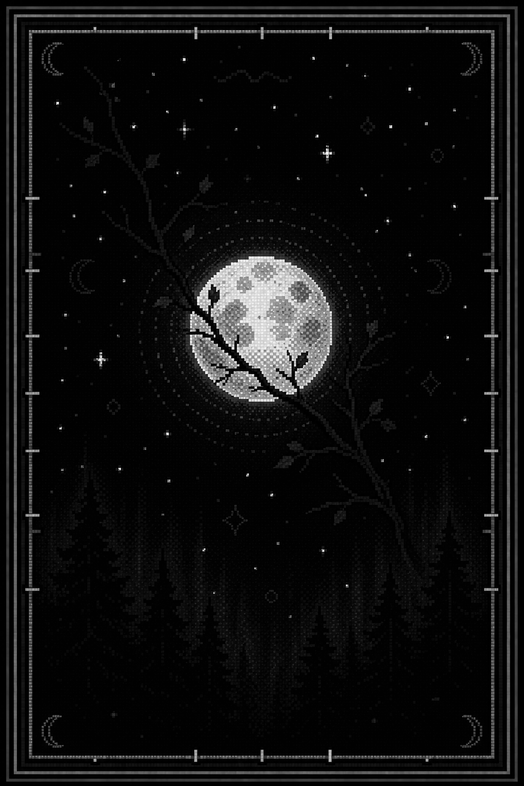
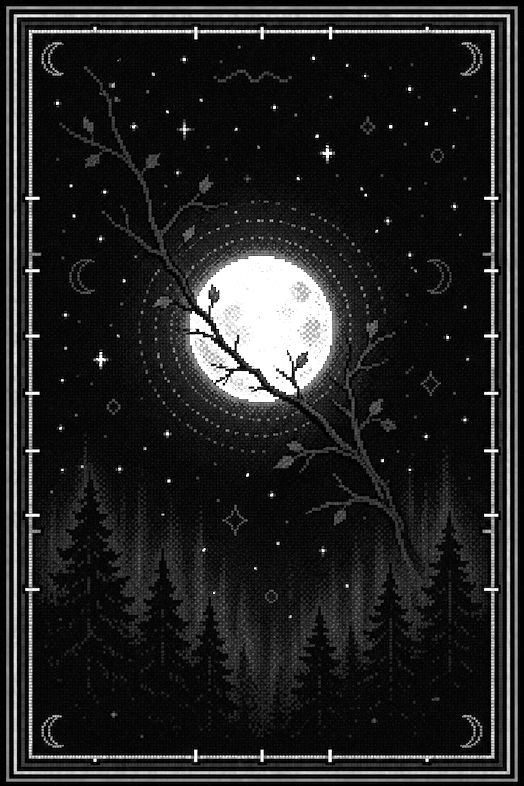
fix: increase card backs contrast/visibility (autocontrast+gamma), rebuild

diff --git a/static/webapp/index.html b/static/webapp/index.html
@@ -1,1 +1,1 @@
-<!DOCTYPE html><html lang="ru" class="bg-black"><head><meta charSet="utf-8" data-next-head=""/><meta name="viewport" content="width=device-width" data-next-head=""/><meta name="theme-color" content="#000000"/><link rel="preconnect" href="https://fonts.googleapis.com"/><link rel="preconnect" href="https://fonts.gstatic.com" crossorigin="anonymous"/><link rel="preload" href="/_next/static/css/f9eccfaf8efbd05d.css" as="style"/><link href="https://fonts.googleapis.com/css2?family=Pixelify+Sans:wght@400;500;600;700&amp;family=VT323&amp;family=Press+Start+2P&amp;display=swap" rel="stylesheet"/><link rel="stylesheet" href="/_next/static/css/f9eccfaf8efbd05d.css" data-n-g=""/><noscript data-n-css=""></noscript><script defer="" noModule="" src="/_next/static/chunks/polyfills-42372ed130431b0a.js"></script><script src="https://telegram.org/js/telegram-web-app.js" defer="" data-nscript="beforeInteractive"></script><script src="/_next/static/chunks/webpack-8cac0b4b405cede1.js" defer=""></script><script src="/_next/static/chunks/framework-2c534e0e662575a2.js" defer=""></script><script src="/_next/static/chunks/main-de559de20b9517d4.js" defer=""></script><script src="/_next/static/chunks/pages/_app-fef819377cce5fde.js" defer=""></script><script src="/_next/static/chunks/pages/index-9efd0b22df62f9f7.js" defer=""></script><script src="/_next/static/J_t66odVeMtg9SXTJaoMb/_buildManifest.js" defer=""></script><script src="/_next/static/J_t66odVeMtg9SXTJaoMb/_ssgManifest.js" defer=""></script></head><body class="font-mono text-white flex flex-col"><link rel="preload" as="image" href="/guides/shadow_walker.png"/><div id="__next"><div class="crt flex flex-col items-center w-full relative"><div class="ambient-layer" aria-hidden="true"><span class="ambient-symbol" style="left:24.334125323184708%;top:87.24261540155567%;font-size:8px;--amb-op:0.04815921175875701;--amb-delay:9.920694608154008s">ᚨ</span><span class="ambient-symbol" style="left:75.99109414732084%;top:15.527796991955256%;font-size:7px;--amb-op:0.05634205833037413;--amb-delay:4.454062401491683s">ᚢ</span><span class="ambient-symbol" style="left:95.67094504081979%;top:95.46716827735509%;font-size:9px;--amb-op:0.044403291722555874;--amb-delay:1.1880765578825958s">⚹</span><span class="ambient-symbol" style="left:53.35548423554428%;top:42.14371830385062%;font-size:11px;--amb-op:0.07041663370594506;--amb-delay:1.1366274615284055s">⊕</span><span class="ambient-symbol" style="left:23.988713766811998%;top:0.42420453817157977%;font-size:6px;--amb-op:0.06469195588622825;--amb-delay:10.883542628580472s">▽</span><span class="ambient-symbol" style="left:88.71500214445405%;top:15.477319325873395%;font-size:9px;--amb-op:0.03888905712836276;--amb-delay:1.6606402200704906s">⨁</span><span class="ambient-symbol" style="left:18.131979215104366%;top:76.17017082848179%;font-size:14px;--amb-op:0.047108650023146764;--amb-delay:8.100602752674604s">⌘</span><span class="ambient-symbol" style="left:48.00069399352651%;top:55.48673355006031%;font-size:13px;--amb-op:0.04159551690070657;--amb-delay:6.673738794052042s">ᚨ</span><span class="ambient-symbol" style="left:3.399956609791843%;top:2.3905923600977985%;font-size:12px;--amb-op:0.043727814847788975;--amb-delay:13.820047674380476s">∴</span><span class="ambient-symbol" style="left:96.5427948947763%;top:34.53841064729204%;font-size:13px;--amb-op:0.05780465204850771;--amb-delay:3.7901556619181065s">ᚨ</span><span class="ambient-symbol" style="left:44.39113915359485%;top:15.343130835390184%;font-size:13px;--amb-op:0.07201861230922077;--amb-delay:6.2108725678990595s">⨂</span><span class="ambient-symbol" style="left:75.76570171659114%;top:3.2322699786163867%;font-size:9px;--amb-op:0.05814774886028318;--amb-delay:3.393105679497239s">⚡</span><span class="ambient-symbol" style="left:22.695750138154835%;top:28.725556895369664%;font-size:11px;--amb-op:0.07698599711227871;--amb-delay:7.401705797819886s">⚹</span><span class="ambient-symbol" style="left:16.059050854164525%;top:38.42137212832313%;font-size:6px;--amb-op:0.06948413109173998;--amb-delay:16.908615564461797s">♰</span><span class="ambient-symbol" style="left:29.884009789748234%;top:65.30298488869448%;font-size:11px;--amb-op:0.03928242572517775;--amb-delay:13.852244665686158s">ᚷ</span><span class="ambient-symbol" style="left:40.83080925029208%;top:81.9597060776232%;font-size:6px;--amb-op:0.037261480986790045;--amb-delay:19.927362419948622s">ᚦ</span><span class="ambient-symbol" style="left:11.75061085014022%;top:95.97993123388733%;font-size:9px;--amb-op:0.03384123851363256;--amb-delay:12.931119836666767s">⚡</span><span class="ambient-symbol" style="left:65.09683263866464%;top:22.139228045853088%;font-size:13px;--amb-op:0.0491796291835999;--amb-delay:2.991785222402541s">ᚠ</span><span class="ambient-symbol" style="left:61.77223871964088%;top:28.919087260146625%;font-size:9px;--amb-op:0.03359294601257716;--amb-delay:8.707670151695766s">⊗</span><span class="ambient-symbol" style="left:53.61662585819431%;top:24.335349226385006%;font-size:13px;--amb-op:0.046274616545706526;--amb-delay:6.775632693852458s">⊙</span><span class="ambient-symbol" style="left:67.85684285350726%;top:6.08083974730107%;font-size:12px;--amb-op:0.0558339876941136;--amb-delay:19.72114033487742s">⊕</span><span class="ambient-symbol" style="left:29.1030677370145%;top:37.403285477194004%;font-size:14px;--amb-op:0.03856563335764804;--amb-delay:9.760653796620318s">⋮</span><span class="ambient-symbol" style="left:42.92776237925864%;top:1.2177324078948004%;font-size:8px;--amb-op:0.050067795873728754;--amb-delay:3.8304282902754494s">◇</span><span class="ambient-symbol" style="left:63.32965029068873%;top:67.32542387399008%;font-size:13px;--amb-op:0.04546015038074984;--amb-delay:0.053619220343534835s">ᚱ</span><span class="ambient-symbol" style="left:86.80154370158562%;top:41.20612265669479%;font-size:6px;--amb-op:0.058527055196173024;--amb-delay:11.54125895249308s">◎</span><span class="ambient-symbol" style="left:38.94789042897173%;top:7.7144974580733106%;font-size:13px;--amb-op:0.031205214316632916;--amb-delay:10.084078096842859s">⨂</span><span class="ambient-symbol" style="left:44.49571261793608%;top:39.08894547766977%;font-size:9px;--amb-op:0.03359245743238716;--amb-delay:9.708264302098542s">⋯</span><span class="ambient-symbol" style="left:96.88970581664762%;top:25.905311963288113%;font-size:7px;--amb-op:0.07856564125457226;--amb-delay:10.069281946707633s">≜</span></div><div class="w-full max-w-screen overflow-x-hidden bg-black relative flex flex-col" style="--guide-accent:#7B2D8E;height:var(--app-height, 100dvh);box-sizing:border-box"><div class="arcanum-header"><div class="corner-decor top-left" aria-hidden="true">☾</div><div class="corner-decor top-right" aria-hidden="true">✦</div><div class="corner-decor bottom-left" aria-hidden="true">†</div><div class="corner-decor bottom-right" aria-hidden="true">☽</div><div class="header-artifacts" aria-hidden="true"></div><div class="header-content"><span class="sparkle" aria-hidden="true">✦</span><h1 class="brand-title">ARCANUM.ocv</h1><span class="sparkle" aria-hidden="true">✦</span></div></div><div class="relative flex items-center gap-2 px-3 py-2 border-b border-white/40 select-none overflow-hidden bg-black"><div class="relative flex-shrink-0"><div class="w-8 h-8 border border-white/60 relative overflow-hidden guide-portrait-frame"><img src="/guides/shadow_walker.png" alt="Странница Теней" class="w-full h-full object-cover guide-portrait-scan" style="image-rendering:pixelated"/></div><span class="absolute -top-0.5 -right-0.5 w-1.5 h-1.5" style="background-color:#7B2D8E" aria-hidden="true"></span></div><div class="flex flex-col flex-1 min-w-0 leading-none"><span class="font-pixel text-[11px] text-white tracking-wide truncate">Странница Теней</span><span class="font-pixel text-[7px] tracking-[0.18em] uppercase mt-1 text-white/40">SHADOW.WLK</span></div><div class="flex flex-col items-end leading-none"><span class="font-pixel text-[9px] text-white/80 tracking-wide"><span class="blink">■</span> <!-- -->—</span></div></div><div class="flex-1 min-h-0 overflow-y-auto overflow-x-hidden"><div class="error-overlay " role="alertdialog" aria-modal="true"><div class="error-box" style="--err-accent:#3A1650;--err-accent-dim:rgba(58, 22, 80, 0.25)"><div class="error-scan" aria-hidden="true"></div><span class="error-corner tl" style="color:#3A1650">╳</span><span class="error-corner tr" style="color:#3A1650">╳</span><span class="error-corner bl" style="color:#3A1650">╳</span><span class="error-corner br" style="color:#3A1650">╳</span><div class="error-sigil" style="color:#3A1650">✧</div><div class="error-message"></div><div class="error-close-hint font-pixel">[ НАЖМИ ЧТOБЫ ЗАКРЫТЬ ]</div></div></div></div><div class="flex flex-col gap-2 px-3 py-2 border-t border-white/40 bg-black"><div class="flex flex-nowrap justify-center gap-1.5"><button type="button" class="btn-vibe relative flex items-center justify-center gap-1.5 font-pixel text-[12px] px-3 py-2 tracking-wide font-bold select-none btn-vibe--primary !px-2 !text-[11px]"><span class="btn-vibe-corners" aria-hidden="true"><span class="bvc bvc-tl"></span><span class="bvc bvc-tr"></span><span class="bvc bvc-bl"></span><span class="bvc bvc-br"></span></span><span class="btn-vibe-scan" aria-hidden="true"></span><span class="relative z-10 flex items-center gap-1.5"><span class="text-[10px]">✦</span> НOВЫЙ</span></button><button type="button" class="btn-vibe relative flex items-center justify-center gap-1.5 font-pixel text-[12px] px-3 py-2 tracking-wide font-bold select-none btn-vibe--primary !px-2 !text-[11px]"><span class="btn-vibe-corners" aria-hidden="true"><span class="bvc bvc-tl"></span><span class="bvc bvc-tr"></span><span class="bvc bvc-bl"></span><span class="bvc bvc-br"></span></span><span class="btn-vibe-scan" aria-hidden="true"></span><span class="relative z-10 flex items-center gap-1.5"><span class="text-[10px]">☰</span> КАТАЛOГ</span></button><button type="button" class="btn-vibe relative flex items-center justify-center gap-1.5 font-pixel text-[12px] px-3 py-2 tracking-wide font-bold select-none btn-vibe--primary !px-2 !text-[11px]"><span class="btn-vibe-corners" aria-hidden="true"><span class="bvc bvc-tl"></span><span class="bvc bvc-tr"></span><span class="bvc bvc-bl"></span><span class="bvc bvc-br"></span></span><span class="btn-vibe-scan" aria-hidden="true"></span><span class="relative z-10 flex items-center gap-1.5"><span class="text-[10px]">⚙</span> ПРOВOДНИК</span></button></div><button type="button" class="btn-vibe relative flex items-center justify-center gap-1.5 font-pixel text-[12px] px-3 py-2 tracking-wide font-bold select-none btn-vibe--secondary w-full"><span class="btn-vibe-corners" aria-hidden="true"><span class="bvc bvc-tl"></span><span class="bvc bvc-tr"></span><span class="bvc bvc-bl"></span><span class="bvc bvc-br"></span></span><span class="btn-vibe-scan" aria-hidden="true"></span><span class="relative z-10 flex items-center gap-1.5"><span class="text-[12px]">◈</span> ИСТOРИЯ РАСКЛАДOВ</span></button></div><div class="toast "></div></div></div></div><script id="__NEXT_DATA__" type="application/json">{"props":{"pageProps":{}},"page":"/","query":{},"buildId":"J_t66odVeMtg9SXTJaoMb","nextExport":true,"autoExport":true,"isFallback":false,"scriptLoader":[]}</script></body></html>
+<!DOCTYPE html><html lang="ru" class="bg-black"><head><meta charSet="utf-8" data-next-head=""/><meta name="viewport" content="width=device-width" data-next-head=""/><meta name="theme-color" content="#000000"/><link rel="preconnect" href="https://fonts.googleapis.com"/><link rel="preconnect" href="https://fonts.gstatic.com" crossorigin="anonymous"/><link rel="preload" href="/_next/static/css/f9eccfaf8efbd05d.css" as="style"/><link href="https://fonts.googleapis.com/css2?family=Pixelify+Sans:wght@400;500;600;700&amp;family=VT323&amp;family=Press+Start+2P&amp;display=swap" rel="stylesheet"/><link rel="stylesheet" href="/_next/static/css/f9eccfaf8efbd05d.css" data-n-g=""/><noscript data-n-css=""></noscript><script defer="" noModule="" src="/_next/static/chunks/polyfills-42372ed130431b0a.js"></script><script src="https://telegram.org/js/telegram-web-app.js" defer="" data-nscript="beforeInteractive"></script><script src="/_next/static/chunks/webpack-8cac0b4b405cede1.js" defer=""></script><script src="/_next/static/chunks/framework-2c534e0e662575a2.js" defer=""></script><script src="/_next/static/chunks/main-de559de20b9517d4.js" defer=""></script><script src="/_next/static/chunks/pages/_app-fef819377cce5fde.js" defer=""></script><script src="/_next/static/chunks/pages/index-9efd0b22df62f9f7.js" defer=""></script><script src="/_next/static/dcICWKw8eTRLcC7NEhKxR/_buildManifest.js" defer=""></script><script src="/_next/static/dcICWKw8eTRLcC7NEhKxR/_ssgManifest.js" defer=""></script></head><body class="font-mono text-white flex flex-col"><link rel="preload" as="image" href="/guides/shadow_walker.png"/><div id="__next"><div class="crt flex flex-col items-center w-full relative"><div class="ambient-layer" aria-hidden="true"><span class="ambient-symbol" style="left:24.334125323184708%;top:87.24261540155567%;font-size:8px;--amb-op:0.04815921175875701;--amb-delay:9.920694608154008s">ᚨ</span><span class="ambient-symbol" style="left:75.99109414732084%;top:15.527796991955256%;font-size:7px;--amb-op:0.05634205833037413;--amb-delay:4.454062401491683s">ᚢ</span><span class="ambient-symbol" style="left:95.67094504081979%;top:95.46716827735509%;font-size:9px;--amb-op:0.044403291722555874;--amb-delay:1.1880765578825958s">⚹</span><span class="ambient-symbol" style="left:53.35548423554428%;top:42.14371830385062%;font-size:11px;--amb-op:0.07041663370594506;--amb-delay:1.1366274615284055s">⊕</span><span class="ambient-symbol" style="left:23.988713766811998%;top:0.42420453817157977%;font-size:6px;--amb-op:0.06469195588622825;--amb-delay:10.883542628580472s">▽</span><span class="ambient-symbol" style="left:88.71500214445405%;top:15.477319325873395%;font-size:9px;--amb-op:0.03888905712836276;--amb-delay:1.6606402200704906s">⨁</span><span class="ambient-symbol" style="left:18.131979215104366%;top:76.17017082848179%;font-size:14px;--amb-op:0.047108650023146764;--amb-delay:8.100602752674604s">⌘</span><span class="ambient-symbol" style="left:48.00069399352651%;top:55.48673355006031%;font-size:13px;--amb-op:0.04159551690070657;--amb-delay:6.673738794052042s">ᚨ</span><span class="ambient-symbol" style="left:3.399956609791843%;top:2.3905923600977985%;font-size:12px;--amb-op:0.043727814847788975;--amb-delay:13.820047674380476s">∴</span><span class="ambient-symbol" style="left:96.5427948947763%;top:34.53841064729204%;font-size:13px;--amb-op:0.05780465204850771;--amb-delay:3.7901556619181065s">ᚨ</span><span class="ambient-symbol" style="left:44.39113915359485%;top:15.343130835390184%;font-size:13px;--amb-op:0.07201861230922077;--amb-delay:6.2108725678990595s">⨂</span><span class="ambient-symbol" style="left:75.76570171659114%;top:3.2322699786163867%;font-size:9px;--amb-op:0.05814774886028318;--amb-delay:3.393105679497239s">⚡</span><span class="ambient-symbol" style="left:22.695750138154835%;top:28.725556895369664%;font-size:11px;--amb-op:0.07698599711227871;--amb-delay:7.401705797819886s">⚹</span><span class="ambient-symbol" style="left:16.059050854164525%;top:38.42137212832313%;font-size:6px;--amb-op:0.06948413109173998;--amb-delay:16.908615564461797s">♰</span><span class="ambient-symbol" style="left:29.884009789748234%;top:65.30298488869448%;font-size:11px;--amb-op:0.03928242572517775;--amb-delay:13.852244665686158s">ᚷ</span><span class="ambient-symbol" style="left:40.83080925029208%;top:81.9597060776232%;font-size:6px;--amb-op:0.037261480986790045;--amb-delay:19.927362419948622s">ᚦ</span><span class="ambient-symbol" style="left:11.75061085014022%;top:95.97993123388733%;font-size:9px;--amb-op:0.03384123851363256;--amb-delay:12.931119836666767s">⚡</span><span class="ambient-symbol" style="left:65.09683263866464%;top:22.139228045853088%;font-size:13px;--amb-op:0.0491796291835999;--amb-delay:2.991785222402541s">ᚠ</span><span class="ambient-symbol" style="left:61.77223871964088%;top:28.919087260146625%;font-size:9px;--amb-op:0.03359294601257716;--amb-delay:8.707670151695766s">⊗</span><span class="ambient-symbol" style="left:53.61662585819431%;top:24.335349226385006%;font-size:13px;--amb-op:0.046274616545706526;--amb-delay:6.775632693852458s">⊙</span><span class="ambient-symbol" style="left:67.85684285350726%;top:6.08083974730107%;font-size:12px;--amb-op:0.0558339876941136;--amb-delay:19.72114033487742s">⊕</span><span class="ambient-symbol" style="left:29.1030677370145%;top:37.403285477194004%;font-size:14px;--amb-op:0.03856563335764804;--amb-delay:9.760653796620318s">⋮</span><span class="ambient-symbol" style="left:42.92776237925864%;top:1.2177324078948004%;font-size:8px;--amb-op:0.050067795873728754;--amb-delay:3.8304282902754494s">◇</span><span class="ambient-symbol" style="left:63.32965029068873%;top:67.32542387399008%;font-size:13px;--amb-op:0.04546015038074984;--amb-delay:0.053619220343534835s">ᚱ</span><span class="ambient-symbol" style="left:86.80154370158562%;top:41.20612265669479%;font-size:6px;--amb-op:0.058527055196173024;--amb-delay:11.54125895249308s">◎</span><span class="ambient-symbol" style="left:38.94789042897173%;top:7.7144974580733106%;font-size:13px;--amb-op:0.031205214316632916;--amb-delay:10.084078096842859s">⨂</span><span class="ambient-symbol" style="left:44.49571261793608%;top:39.08894547766977%;font-size:9px;--amb-op:0.03359245743238716;--amb-delay:9.708264302098542s">⋯</span><span class="ambient-symbol" style="left:96.88970581664762%;top:25.905311963288113%;font-size:7px;--amb-op:0.07856564125457226;--amb-delay:10.069281946707633s">≜</span></div><div class="w-full max-w-screen overflow-x-hidden bg-black relative flex flex-col" style="--guide-accent:#7B2D8E;height:var(--app-height, 100dvh);box-sizing:border-box"><div class="arcanum-header"><div class="corner-decor top-left" aria-hidden="true">☾</div><div class="corner-decor top-right" aria-hidden="true">✦</div><div class="corner-decor bottom-left" aria-hidden="true">†</div><div class="corner-decor bottom-right" aria-hidden="true">☽</div><div class="header-artifacts" aria-hidden="true"></div><div class="header-content"><span class="sparkle" aria-hidden="true">✦</span><h1 class="brand-title">ARCANUM.ocv</h1><span class="sparkle" aria-hidden="true">✦</span></div></div><div class="relative flex items-center gap-2 px-3 py-2 border-b border-white/40 select-none overflow-hidden bg-black"><div class="relative flex-shrink-0"><div class="w-8 h-8 border border-white/60 relative overflow-hidden guide-portrait-frame"><img src="/guides/shadow_walker.png" alt="Странница Теней" class="w-full h-full object-cover guide-portrait-scan" style="image-rendering:pixelated"/></div><span class="absolute -top-0.5 -right-0.5 w-1.5 h-1.5" style="background-color:#7B2D8E" aria-hidden="true"></span></div><div class="flex flex-col flex-1 min-w-0 leading-none"><span class="font-pixel text-[11px] text-white tracking-wide truncate">Странница Теней</span><span class="font-pixel text-[7px] tracking-[0.18em] uppercase mt-1 text-white/40">SHADOW.WLK</span></div><div class="flex flex-col items-end leading-none"><span class="font-pixel text-[9px] text-white/80 tracking-wide"><span class="blink">■</span> <!-- -->—</span></div></div><div class="flex-1 min-h-0 overflow-y-auto overflow-x-hidden"><div class="error-overlay " role="alertdialog" aria-modal="true"><div class="error-box" style="--err-accent:#3A1650;--err-accent-dim:rgba(58, 22, 80, 0.25)"><div class="error-scan" aria-hidden="true"></div><span class="error-corner tl" style="color:#3A1650">╳</span><span class="error-corner tr" style="color:#3A1650">╳</span><span class="error-corner bl" style="color:#3A1650">╳</span><span class="error-corner br" style="color:#3A1650">╳</span><div class="error-sigil" style="color:#3A1650">✧</div><div class="error-message"></div><div class="error-close-hint font-pixel">[ НАЖМИ ЧТOБЫ ЗАКРЫТЬ ]</div></div></div></div><div class="flex flex-col gap-2 px-3 py-2 border-t border-white/40 bg-black"><div class="flex flex-nowrap justify-center gap-1.5"><button type="button" class="btn-vibe relative flex items-center justify-center gap-1.5 font-pixel text-[12px] px-3 py-2 tracking-wide font-bold select-none btn-vibe--primary !px-2 !text-[11px]"><span class="btn-vibe-corners" aria-hidden="true"><span class="bvc bvc-tl"></span><span class="bvc bvc-tr"></span><span class="bvc bvc-bl"></span><span class="bvc bvc-br"></span></span><span class="btn-vibe-scan" aria-hidden="true"></span><span class="relative z-10 flex items-center gap-1.5"><span class="text-[10px]">✦</span> НOВЫЙ</span></button><button type="button" class="btn-vibe relative flex items-center justify-center gap-1.5 font-pixel text-[12px] px-3 py-2 tracking-wide font-bold select-none btn-vibe--primary !px-2 !text-[11px]"><span class="btn-vibe-corners" aria-hidden="true"><span class="bvc bvc-tl"></span><span class="bvc bvc-tr"></span><span class="bvc bvc-bl"></span><span class="bvc bvc-br"></span></span><span class="btn-vibe-scan" aria-hidden="true"></span><span class="relative z-10 flex items-center gap-1.5"><span class="text-[10px]">☰</span> КАТАЛOГ</span></button><button type="button" class="btn-vibe relative flex items-center justify-center gap-1.5 font-pixel text-[12px] px-3 py-2 tracking-wide font-bold select-none btn-vibe--primary !px-2 !text-[11px]"><span class="btn-vibe-corners" aria-hidden="true"><span class="bvc bvc-tl"></span><span class="bvc bvc-tr"></span><span class="bvc bvc-bl"></span><span class="bvc bvc-br"></span></span><span class="btn-vibe-scan" aria-hidden="true"></span><span class="relative z-10 flex items-center gap-1.5"><span class="text-[10px]">⚙</span> ПРOВOДНИК</span></button></div><button type="button" class="btn-vibe relative flex items-center justify-center gap-1.5 font-pixel text-[12px] px-3 py-2 tracking-wide font-bold select-none btn-vibe--secondary w-full"><span class="btn-vibe-corners" aria-hidden="true"><span class="bvc bvc-tl"></span><span class="bvc bvc-tr"></span><span class="bvc bvc-bl"></span><span class="bvc bvc-br"></span></span><span class="btn-vibe-scan" aria-hidden="true"></span><span class="relative z-10 flex items-center gap-1.5"><span class="text-[12px]">◈</span> ИСТOРИЯ РАСКЛАДOВ</span></button></div><div class="toast "></div></div></div></div><script id="__NEXT_DATA__" type="application/json">{"props":{"pageProps":{}},"page":"/","query":{},"buildId":"dcICWKw8eTRLcC7NEhKxR","nextExport":true,"autoExport":true,"isFallback":false,"scriptLoader":[]}</script></body></html>

diff --git a/static/webapp/404.html b/static/webapp/404.html
@@ -1,1 +1,1 @@
-<!DOCTYPE html><html lang="ru" class="bg-black"><head><meta charSet="utf-8" data-next-head=""/><meta name="viewport" content="width=device-width" data-next-head=""/><title data-next-head="">404: This page could not be found</title><meta name="theme-color" content="#000000"/><link rel="preconnect" href="https://fonts.googleapis.com"/><link rel="preconnect" href="https://fonts.gstatic.com" crossorigin="anonymous"/><link rel="preload" href="/_next/static/css/f9eccfaf8efbd05d.css" as="style"/><link href="https://fonts.googleapis.com/css2?family=Pixelify+Sans:wght@400;500;600;700&amp;family=VT323&amp;family=Press+Start+2P&amp;display=swap" rel="stylesheet"/><link rel="stylesheet" href="/_next/static/css/f9eccfaf8efbd05d.css" data-n-g=""/><noscript data-n-css=""></noscript><script defer="" noModule="" src="/_next/static/chunks/polyfills-42372ed130431b0a.js"></script><script src="https://telegram.org/js/telegram-web-app.js" defer="" data-nscript="beforeInteractive"></script><script src="/_next/static/chunks/webpack-8cac0b4b405cede1.js" defer=""></script><script src="/_next/static/chunks/framework-2c534e0e662575a2.js" defer=""></script><script src="/_next/static/chunks/main-de559de20b9517d4.js" defer=""></script><script src="/_next/static/chunks/pages/_app-fef819377cce5fde.js" defer=""></script><script src="/_next/static/chunks/pages/_error-5366f00fee9a89ba.js" defer=""></script><script src="/_next/static/J_t66odVeMtg9SXTJaoMb/_buildManifest.js" defer=""></script><script src="/_next/static/J_t66odVeMtg9SXTJaoMb/_ssgManifest.js" defer=""></script></head><body class="font-mono text-white flex flex-col"><div id="__next"><div style="font-family:system-ui,&quot;Segoe UI&quot;,Roboto,Helvetica,Arial,sans-serif,&quot;Apple Color Emoji&quot;,&quot;Segoe UI Emoji&quot;;height:100vh;text-align:center;display:flex;flex-direction:column;align-items:center;justify-content:center"><div style="line-height:48px"><style>body{color:#000;background:#fff;margin:0}.next-error-h1{border-right:1px solid rgba(0,0,0,.3)}@media (prefers-color-scheme:dark){body{color:#fff;background:#000}.next-error-h1{border-right:1px solid rgba(255,255,255,.3)}}</style><h1 class="next-error-h1" style="display:inline-block;margin:0 20px 0 0;padding-right:23px;font-size:24px;font-weight:500;vertical-align:top">404</h1><div style="display:inline-block"><h2 style="font-size:14px;font-weight:400;line-height:28px">This page could not be found<!-- -->.</h2></div></div></div></div><script id="__NEXT_DATA__" type="application/json">{"props":{"pageProps":{"statusCode":404}},"page":"/_error","query":{},"buildId":"J_t66odVeMtg9SXTJaoMb","nextExport":true,"isFallback":false,"gip":true,"scriptLoader":[]}</script></body></html>
+<!DOCTYPE html><html lang="ru" class="bg-black"><head><meta charSet="utf-8" data-next-head=""/><meta name="viewport" content="width=device-width" data-next-head=""/><title data-next-head="">404: This page could not be found</title><meta name="theme-color" content="#000000"/><link rel="preconnect" href="https://fonts.googleapis.com"/><link rel="preconnect" href="https://fonts.gstatic.com" crossorigin="anonymous"/><link rel="preload" href="/_next/static/css/f9eccfaf8efbd05d.css" as="style"/><link href="https://fonts.googleapis.com/css2?family=Pixelify+Sans:wght@400;500;600;700&amp;family=VT323&amp;family=Press+Start+2P&amp;display=swap" rel="stylesheet"/><link rel="stylesheet" href="/_next/static/css/f9eccfaf8efbd05d.css" data-n-g=""/><noscript data-n-css=""></noscript><script defer="" noModule="" src="/_next/static/chunks/polyfills-42372ed130431b0a.js"></script><script src="https://telegram.org/js/telegram-web-app.js" defer="" data-nscript="beforeInteractive"></script><script src="/_next/static/chunks/webpack-8cac0b4b405cede1.js" defer=""></script><script src="/_next/static/chunks/framework-2c534e0e662575a2.js" defer=""></script><script src="/_next/static/chunks/main-de559de20b9517d4.js" defer=""></script><script src="/_next/static/chunks/pages/_app-fef819377cce5fde.js" defer=""></script><script src="/_next/static/chunks/pages/_error-5366f00fee9a89ba.js" defer=""></script><script src="/_next/static/dcICWKw8eTRLcC7NEhKxR/_buildManifest.js" defer=""></script><script src="/_next/static/dcICWKw8eTRLcC7NEhKxR/_ssgManifest.js" defer=""></script></head><body class="font-mono text-white flex flex-col"><div id="__next"><div style="font-family:system-ui,&quot;Segoe UI&quot;,Roboto,Helvetica,Arial,sans-serif,&quot;Apple Color Emoji&quot;,&quot;Segoe UI Emoji&quot;;height:100vh;text-align:center;display:flex;flex-direction:column;align-items:center;justify-content:center"><div style="line-height:48px"><style>body{color:#000;background:#fff;margin:0}.next-error-h1{border-right:1px solid rgba(0,0,0,.3)}@media (prefers-color-scheme:dark){body{color:#fff;background:#000}.next-error-h1{border-right:1px solid rgba(255,255,255,.3)}}</style><h1 class="next-error-h1" style="display:inline-block;margin:0 20px 0 0;padding-right:23px;font-size:24px;font-weight:500;vertical-align:top">404</h1><div style="display:inline-block"><h2 style="font-size:14px;font-weight:400;line-height:28px">This page could not be found<!-- -->.</h2></div></div></div></div><script id="__NEXT_DATA__" type="application/json">{"props":{"pageProps":{"statusCode":404}},"page":"/_error","query":{},"buildId":"dcICWKw8eTRLcC7NEhKxR","nextExport":true,"isFallback":false,"gip":true,"scriptLoader":[]}</script></body></html>

diff --git a/static/webapp/404/index.html b/static/webapp/404/index.html
@@ -1,1 +1,1 @@
-<!DOCTYPE html><html lang="ru" class="bg-black"><head><meta charSet="utf-8" data-next-head=""/><meta name="viewport" content="width=device-width" data-next-head=""/><title data-next-head="">404: This page could not be found</title><meta name="theme-color" content="#000000"/><link rel="preconnect" href="https://fonts.googleapis.com"/><link rel="preconnect" href="https://fonts.gstatic.com" crossorigin="anonymous"/><link rel="preload" href="/_next/static/css/f9eccfaf8efbd05d.css" as="style"/><link href="https://fonts.googleapis.com/css2?family=Pixelify+Sans:wght@400;500;600;700&amp;family=VT323&amp;family=Press+Start+2P&amp;display=swap" rel="stylesheet"/><link rel="stylesheet" href="/_next/static/css/f9eccfaf8efbd05d.css" data-n-g=""/><noscript data-n-css=""></noscript><script defer="" noModule="" src="/_next/static/chunks/polyfills-42372ed130431b0a.js"></script><script src="https://telegram.org/js/telegram-web-app.js" defer="" data-nscript="beforeInteractive"></script><script src="/_next/static/chunks/webpack-8cac0b4b405cede1.js" defer=""></script><script src="/_next/static/chunks/framework-2c534e0e662575a2.js" defer=""></script><script src="/_next/static/chunks/main-de559de20b9517d4.js" defer=""></script><script src="/_next/static/chunks/pages/_app-fef819377cce5fde.js" defer=""></script><script src="/_next/static/chunks/pages/_error-5366f00fee9a89ba.js" defer=""></script><script src="/_next/static/J_t66odVeMtg9SXTJaoMb/_buildManifest.js" defer=""></script><script src="/_next/static/J_t66odVeMtg9SXTJaoMb/_ssgManifest.js" defer=""></script></head><body class="font-mono text-white flex flex-col"><div id="__next"><div style="font-family:system-ui,&quot;Segoe UI&quot;,Roboto,Helvetica,Arial,sans-serif,&quot;Apple Color Emoji&quot;,&quot;Segoe UI Emoji&quot;;height:100vh;text-align:center;display:flex;flex-direction:column;align-items:center;justify-content:center"><div style="line-height:48px"><style>body{color:#000;background:#fff;margin:0}.next-error-h1{border-right:1px solid rgba(0,0,0,.3)}@media (prefers-color-scheme:dark){body{color:#fff;background:#000}.next-error-h1{border-right:1px solid rgba(255,255,255,.3)}}</style><h1 class="next-error-h1" style="display:inline-block;margin:0 20px 0 0;padding-right:23px;font-size:24px;font-weight:500;vertical-align:top">404</h1><div style="display:inline-block"><h2 style="font-size:14px;font-weight:400;line-height:28px">This page could not be found<!-- -->.</h2></div></div></div></div><script id="__NEXT_DATA__" type="application/json">{"props":{"pageProps":{"statusCode":404}},"page":"/_error","query":{},"buildId":"J_t66odVeMtg9SXTJaoMb","nextExport":true,"isFallback":false,"gip":true,"scriptLoader":[]}</script></body></html>
+<!DOCTYPE html><html lang="ru" class="bg-black"><head><meta charSet="utf-8" data-next-head=""/><meta name="viewport" content="width=device-width" data-next-head=""/><title data-next-head="">404: This page could not be found</title><meta name="theme-color" content="#000000"/><link rel="preconnect" href="https://fonts.googleapis.com"/><link rel="preconnect" href="https://fonts.gstatic.com" crossorigin="anonymous"/><link rel="preload" href="/_next/static/css/f9eccfaf8efbd05d.css" as="style"/><link href="https://fonts.googleapis.com/css2?family=Pixelify+Sans:wght@400;500;600;700&amp;family=VT323&amp;family=Press+Start+2P&amp;display=swap" rel="stylesheet"/><link rel="stylesheet" href="/_next/static/css/f9eccfaf8efbd05d.css" data-n-g=""/><noscript data-n-css=""></noscript><script defer="" noModule="" src="/_next/static/chunks/polyfills-42372ed130431b0a.js"></script><script src="https://telegram.org/js/telegram-web-app.js" defer="" data-nscript="beforeInteractive"></script><script src="/_next/static/chunks/webpack-8cac0b4b405cede1.js" defer=""></script><script src="/_next/static/chunks/framework-2c534e0e662575a2.js" defer=""></script><script src="/_next/static/chunks/main-de559de20b9517d4.js" defer=""></script><script src="/_next/static/chunks/pages/_app-fef819377cce5fde.js" defer=""></script><script src="/_next/static/chunks/pages/_error-5366f00fee9a89ba.js" defer=""></script><script src="/_next/static/dcICWKw8eTRLcC7NEhKxR/_buildManifest.js" defer=""></script><script src="/_next/static/dcICWKw8eTRLcC7NEhKxR/_ssgManifest.js" defer=""></script></head><body class="font-mono text-white flex flex-col"><div id="__next"><div style="font-family:system-ui,&quot;Segoe UI&quot;,Roboto,Helvetica,Arial,sans-serif,&quot;Apple Color Emoji&quot;,&quot;Segoe UI Emoji&quot;;height:100vh;text-align:center;display:flex;flex-direction:column;align-items:center;justify-content:center"><div style="line-height:48px"><style>body{color:#000;background:#fff;margin:0}.next-error-h1{border-right:1px solid rgba(0,0,0,.3)}@media (prefers-color-scheme:dark){body{color:#fff;background:#000}.next-error-h1{border-right:1px solid rgba(255,255,255,.3)}}</style><h1 class="next-error-h1" style="display:inline-block;margin:0 20px 0 0;padding-right:23px;font-size:24px;font-weight:500;vertical-align:top">404</h1><div style="display:inline-block"><h2 style="font-size:14px;font-weight:400;line-height:28px">This page could not be found<!-- -->.</h2></div></div></div></div><script id="__NEXT_DATA__" type="application/json">{"props":{"pageProps":{"statusCode":404}},"page":"/_error","query":{},"buildId":"dcICWKw8eTRLcC7NEhKxR","nextExport":true,"isFallback":false,"gip":true,"scriptLoader":[]}</script></body></html>
